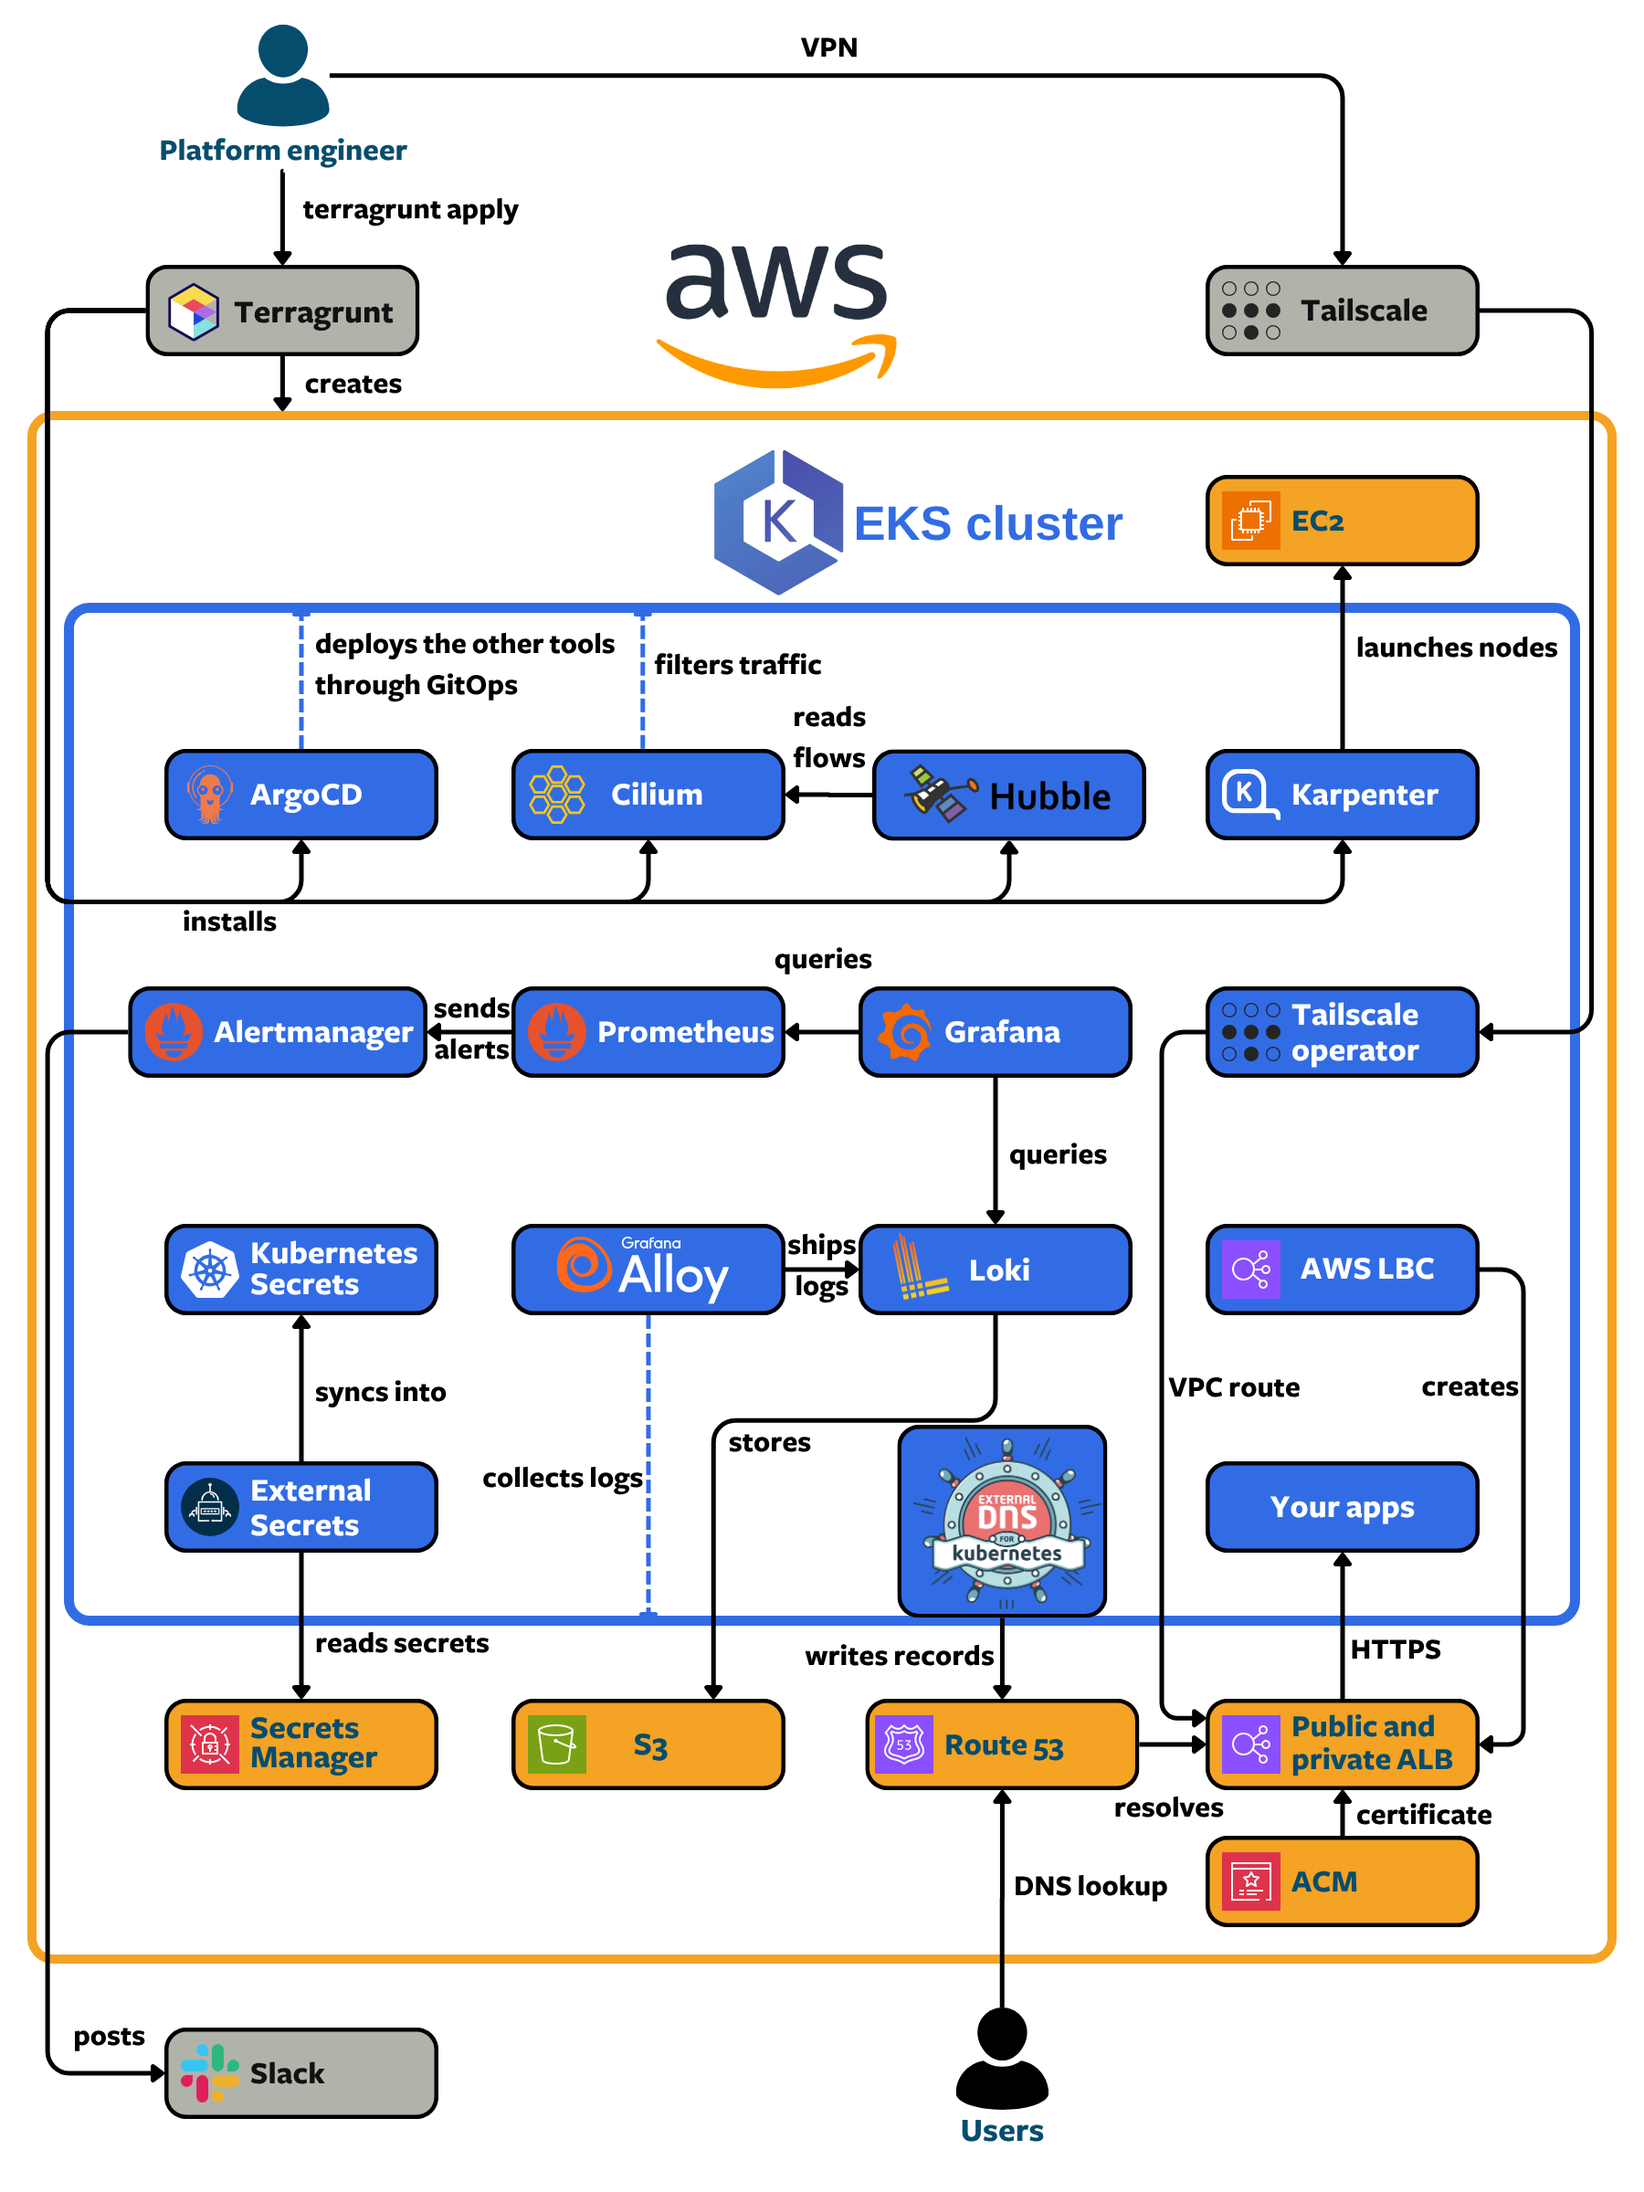
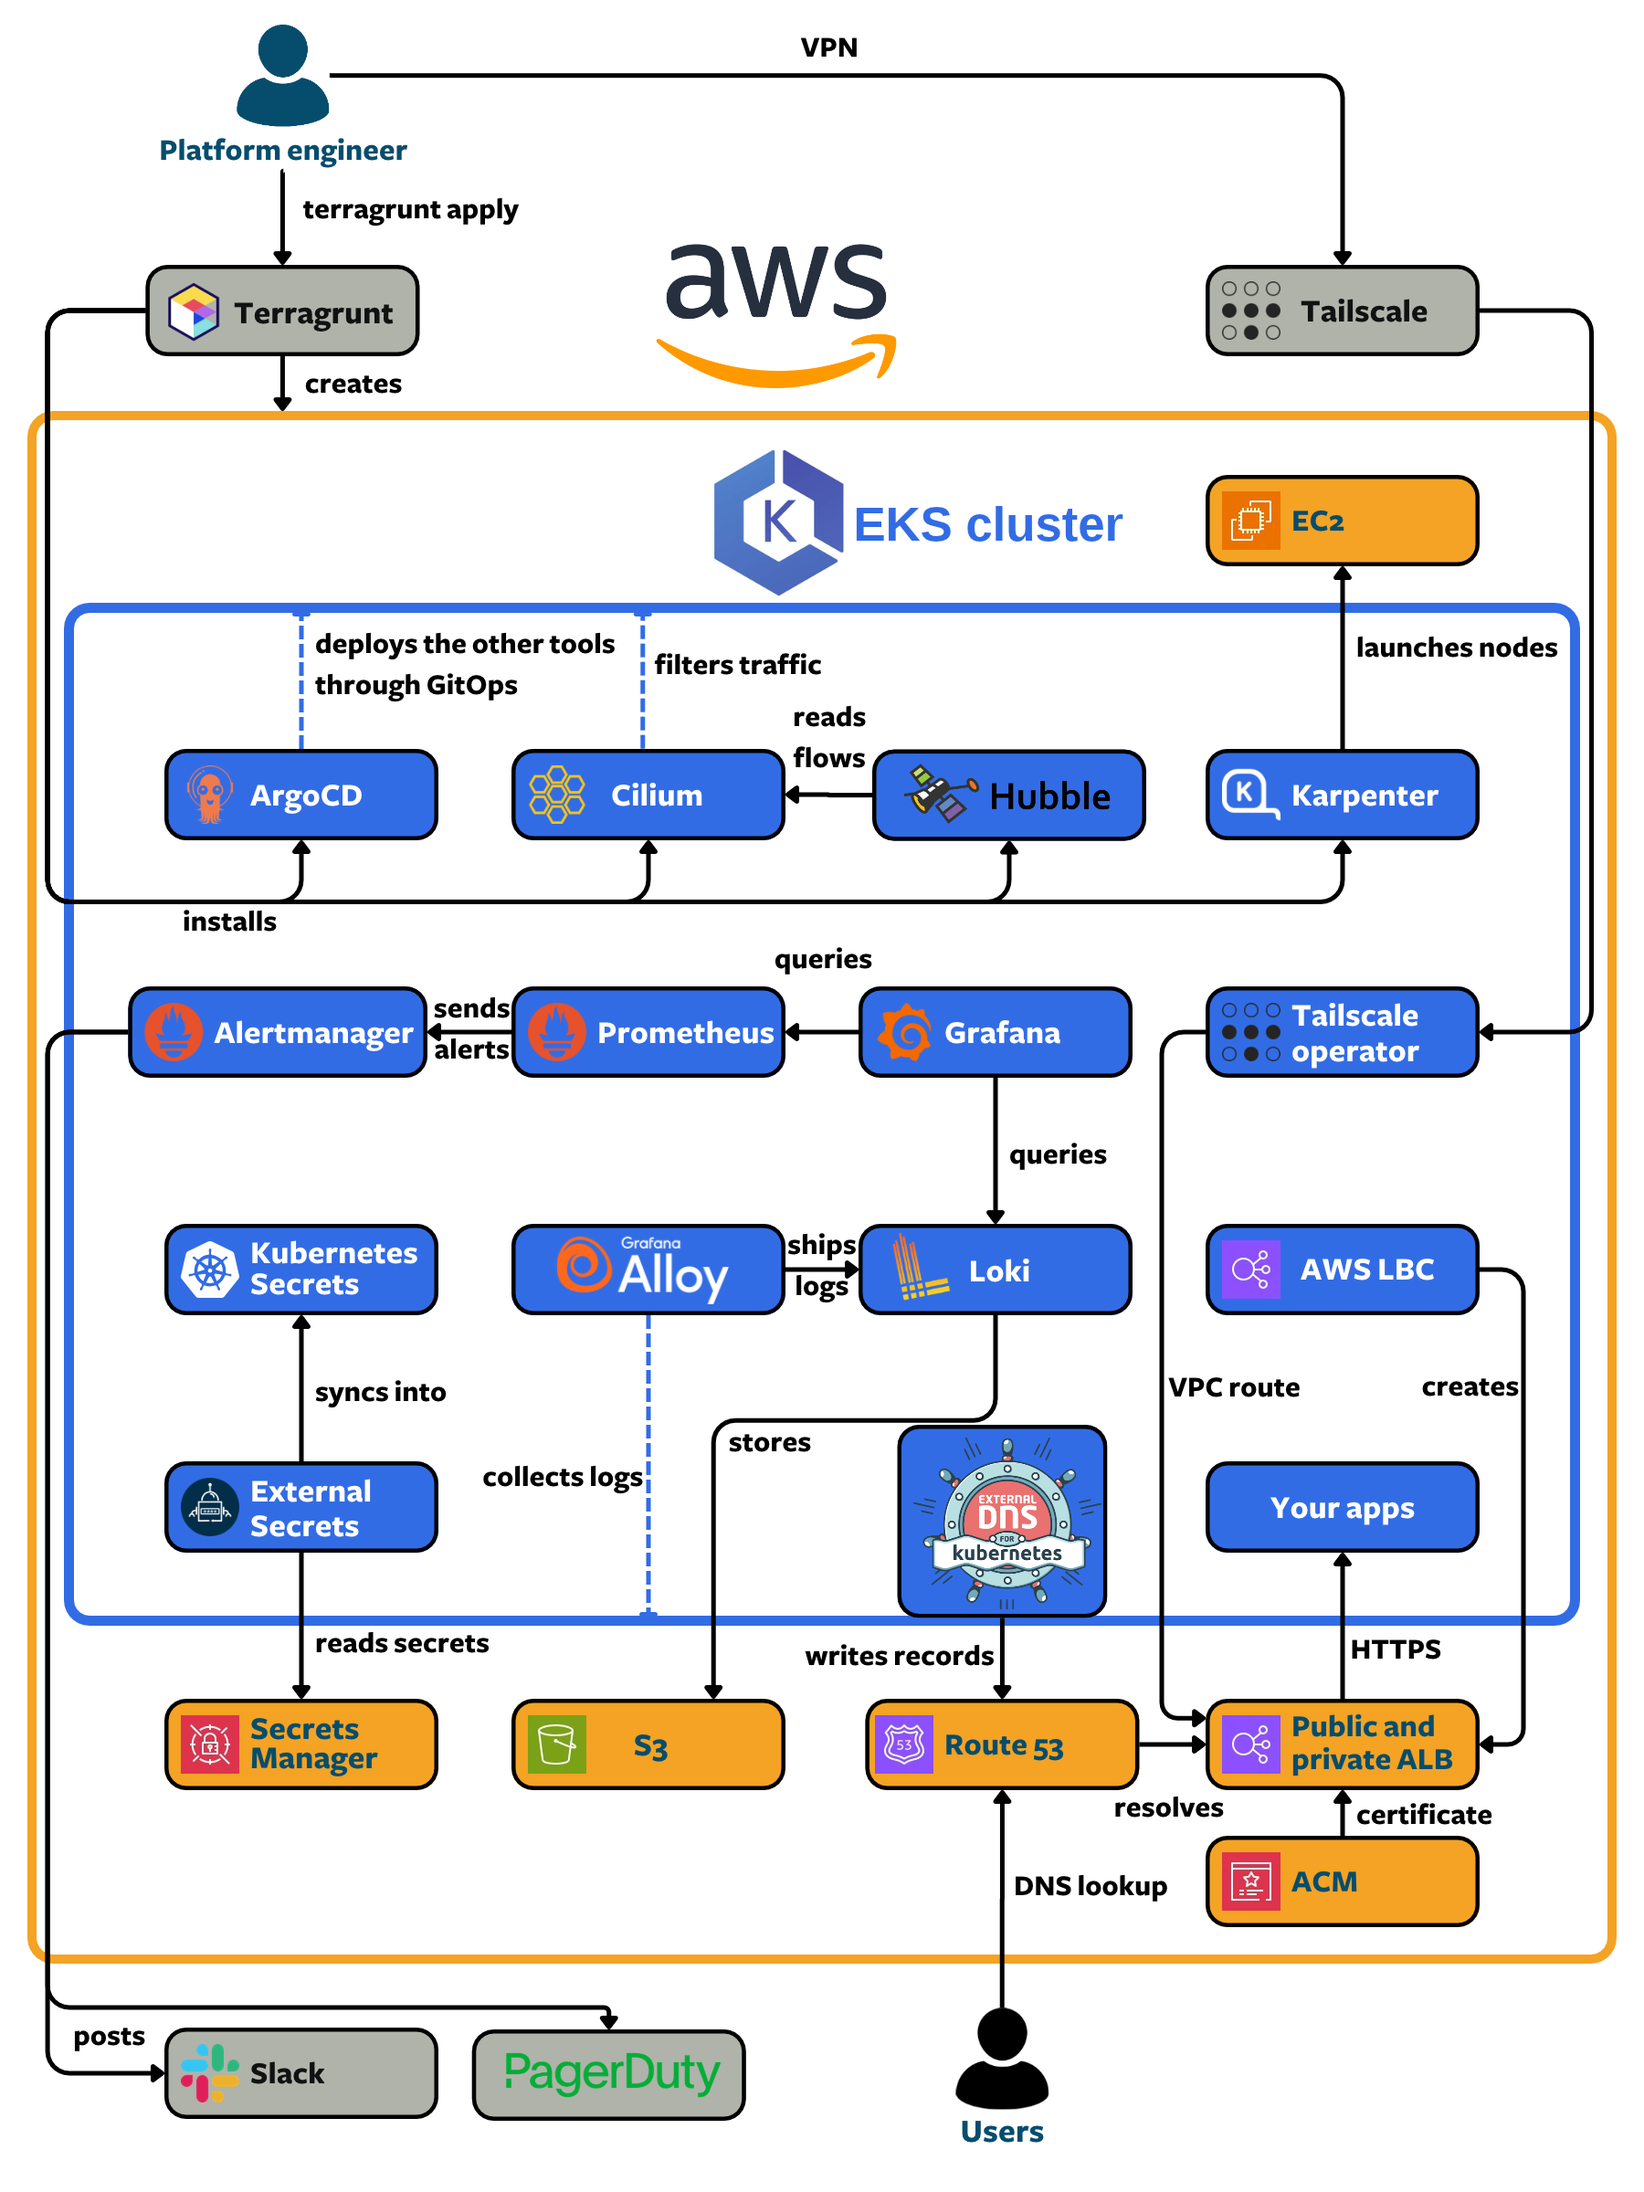
docs: add the PagerDuty receiver to Architecture

diff --git a/site/docs/architecture/index.md b/site/docs/architecture/index.md
@@ -38,4 +38,4 @@ Each part of the diagram has a page of its own:
 - **Network security**: Cilium denies all traffic by default, and allows each flow a pod needs (see [How Network Policies Work](/docs/security/how-network-policies-work/)).
 - **Ingress**: Route 53, the public and private ALBs, and ExternalDNS route a hostname to your app (see [How Ingress Works](/docs/networking/how-ingress-works/)).
 - **Private access**: Tailscale lets developers reach the internal tools (see [How Tailscale Works](/docs/networking/tailscale/)).
-- **Observability**: Prometheus collects metrics, Alloy ships logs to Loki, Hubble shows the flows Cilium sees, and Alertmanager sends alerts to Slack (see [How Monitoring Works](/docs/monitoring/how-monitoring-works/) and [How Alerting Works](/docs/monitoring/alerting/how-alerting-works/)).
+- **Observability**: Prometheus collects metrics, Alloy ships logs to Loki, Hubble shows the flows Cilium sees, and Alertmanager sends alerts to Slack, and SLO page alerts to PagerDuty (see [How Monitoring Works](/docs/monitoring/how-monitoring-works/), [How Alerting Works](/docs/monitoring/alerting/how-alerting-works/), and [How Paging Works](/docs/monitoring/paging/how-paging-works/)).
